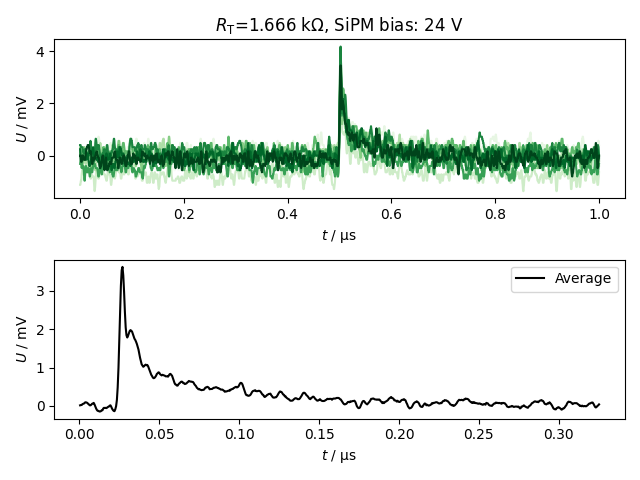
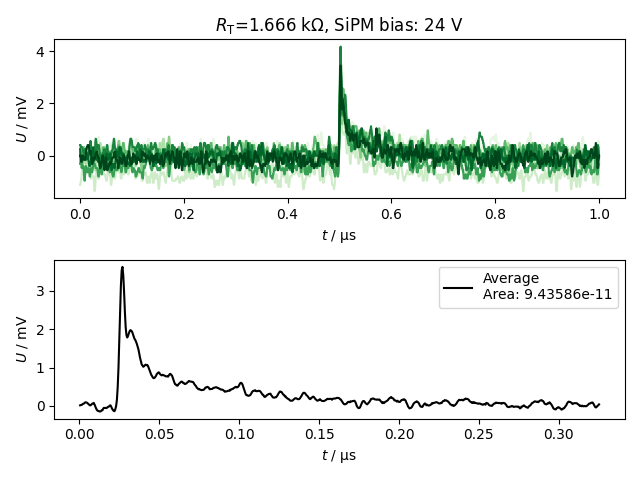
CUMmit

Changed region(s): [[0.75, 0.5625, 0.9688, 0.625], [0.6875, 0.5938, 0.7188, 0.625]]

diff --git a/dataAnalz/singleCountAverage.py b/dataAnalz/singleCountAverage.py
@@ -6,17 +6,18 @@ from matplotlib.pyplot import cm
 import scipy.integrate as integ
 import array
 
+numberOfSets = 10
 
 #AVERAGE OF 10 SINGLE COUNTS IN ~1K WITH 24 V BIAS
 #print(list(cm._colormaps)) #LIST OF COLORMAPS :)
 fig, (ax1, ax2) = plt.subplots(2, 1)
-ax1.set_prop_cycle('color',[cm.Greens(i) for i in np.linspace(0, 1, 10)])
+ax1.set_prop_cycle('color',[cm.Greens(i) for i in np.linspace(0, 1, numberOfSets)])
 
 #SAVE DATASETS FROM 10 DARKCOUNTS TO A LIST AND CHANGES V TO mV
 #SCATTERPLOT OF ALL DATASETS WITH us TIME AXIS
 i = 1
 datasets = []
-while i <= 10:
+while i <= numberOfSets:
     tempor = [1E3 * point for point in rod.readOscilloscopeData("15032024/darkcount{0}".format(str(i)), 1)]
     datasets.append(tempor)
     ax1.plot([1E6 * point for point in rod.readOscilloscopeData("15032024/darkcount{0}".format(str(i)), 0)], tempor)
@@ -40,9 +41,10 @@ timeavg = [point for point in rod.readOscilloscopeData("15032024/darkcount1", 0)
 #INTEGRATION USING SIMPSON'S RULE
 pulaver = array.array("f", pulseaverage)
 area = 1E-3 * integ.simps(pulaver, timeavg, dx=1, even="avg")
+areaforimage = 1E11 * area #MIGHT NEED ADJUSTMENT DEPENDING ON DATASETS
 print(area)
 
-ax2.plot([1E6 * point for point in rod.readOscilloscopeData("15032024/darkcount1", 0)[:650]], pulseaverage, c="black", label="Average")
+ax2.plot([1E6 * point for point in rod.readOscilloscopeData("15032024/darkcount1", 0)[:650]], pulseaverage, c="black", label="Average\nArea: {:.5f}".format(areaforimage) + "e-11")
 ax1.set_xlabel("$t$ / $\\mathrm{\\mu}$s")
 ax1.set_ylabel("$U$ / mV")
 ax1.set_title("$R_{\\mathrm{T}}$=1.666 k$\\Omega$, SiPM bias: 24 V")
